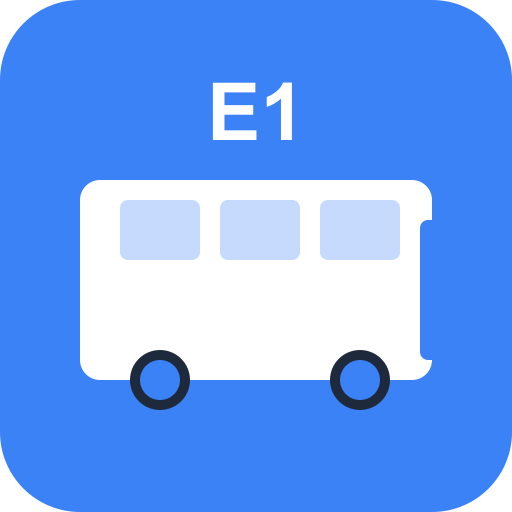
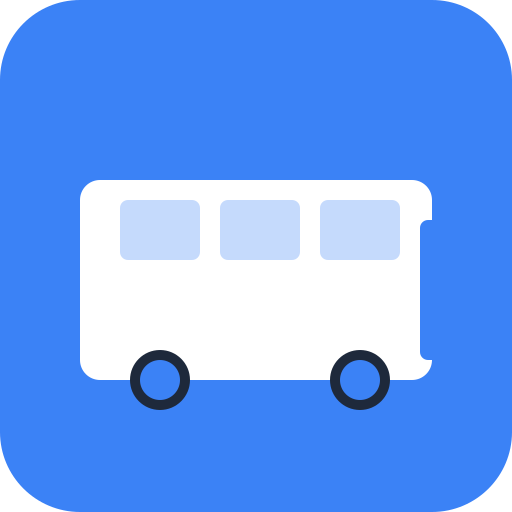
app homscreen and name change

Changed region(s): [[0.4062, 0.1562, 0.5938, 0.2812]]

diff --git a/udi-group9/src/app/layout.tsx b/udi-group9/src/app/layout.tsx
@@ -14,7 +14,7 @@ const geistMono = Geist_Mono({
 });
 
 export const metadata: Metadata = {
-  title: "Campus Bus Tracker",
+  title: "UDI TFI Live",
   description: "Live bus departures with real-time wheelchair and seat availability",
   manifest: "/manifest.json",
   themeColor: "#3b82f6",
@@ -27,7 +27,7 @@ export const metadata: Metadata = {
   appleWebApp: {
     capable: true,
     statusBarStyle: "default",
-    title: "Bus Tracker",
+    title: "UDI TFI Live",
   },
   icons: {
     icon: [
@@ -41,7 +41,7 @@ export const metadata: Metadata = {
   other: {
     "apple-mobile-web-app-capable": "yes",
     "apple-mobile-web-app-status-bar-style": "default",
-    "apple-mobile-web-app-title": "Bus Tracker",
+    "apple-mobile-web-app-title": "UDI TFI Live",
   },
 };
 

diff --git a/udi-group9/src/app/page.tsx b/udi-group9/src/app/page.tsx
@@ -148,7 +148,7 @@ export default function Home() {
           <p className="text-sm uppercase tracking-wide text-zinc-500 dark:text-zinc-400">
             Live Departures
           </p>
-          <h1 className="text-4xl font-bold">Campus Bus Tracker</h1>
+          <h1 className="text-4xl font-bold">UDI TFI Live</h1>
           <p className="text-base text-zinc-600 dark:text-zinc-400">
             Check when the next buses arrive and whether the wheelchair space
             is currently available.

diff --git a/udi-group9/public/icon-generator.html b/udi-group9/public/icon-generator.html
@@ -87,7 +87,6 @@
       <circle cx="160" cy="380" r="20" fill="#3b82f6"/>
       <circle cx="360" cy="380" r="30" fill="#1e293b"/>
       <circle cx="360" cy="380" r="20" fill="#3b82f6"/>
-      <text x="256" y="140" font-family="Arial, sans-serif" font-size="80" font-weight="bold" fill="#ffffff" text-anchor="middle">E1</text>
     </svg>`;
 
     function generateIcons() {

diff --git a/udi-group9/public/sw.js b/udi-group9/public/sw.js
@@ -1,5 +1,5 @@
-// Service Worker for Campus Bus Tracker PWA
-const CACHE_NAME = 'campus-bus-tracker-v1';
+// Service Worker for UDI TFI Live PWA
+const CACHE_NAME = 'udi-tfi-live-v1';
 const urlsToCache = [
   '/',
   '/manifest.json',

diff --git a/udi-group9/APP_LOGIC_EXPLANATION.md b/udi-group9/APP_LOGIC_EXPLANATION.md
@@ -1,4 +1,4 @@
-# Campus Bus Tracker - App Logic Explanation
+# UDI TFI Live - App Logic Explanation
 
 ## Overview
 This is a real-time bus tracking application that displays:
